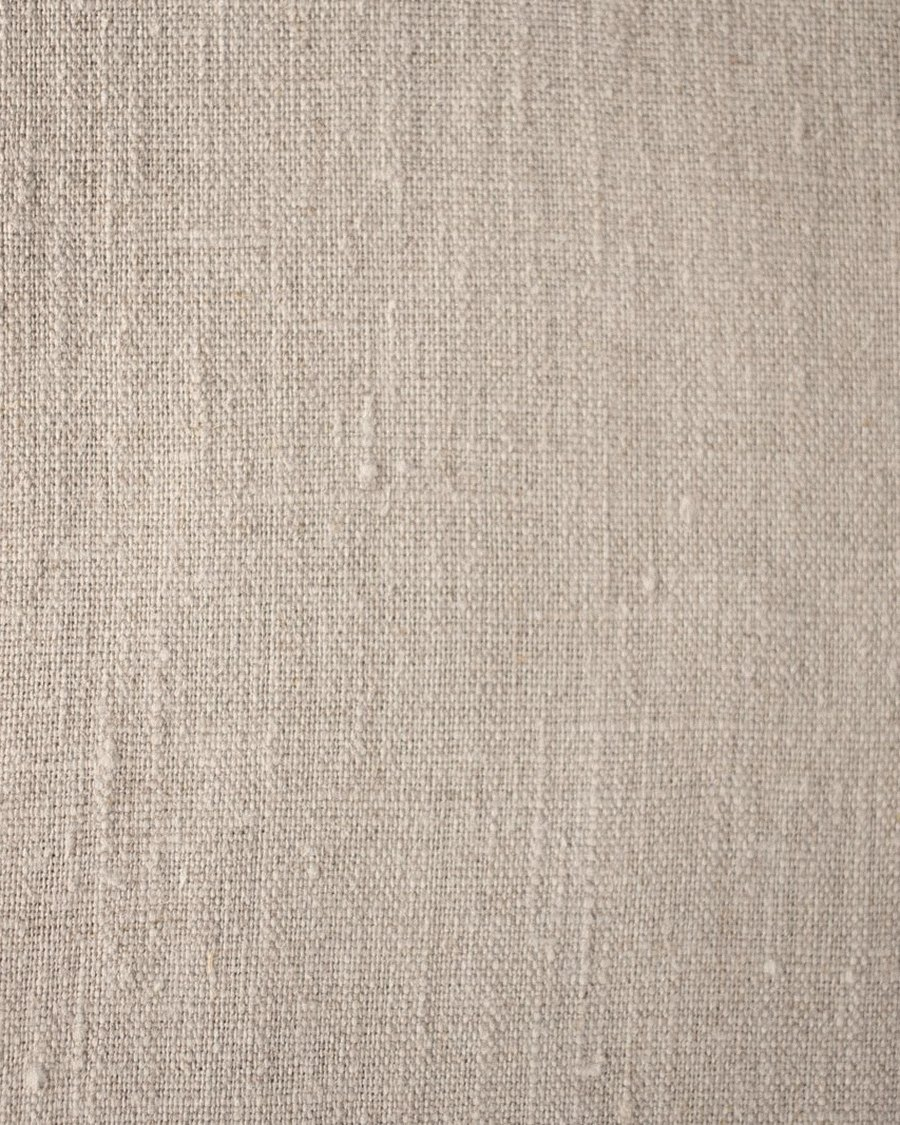
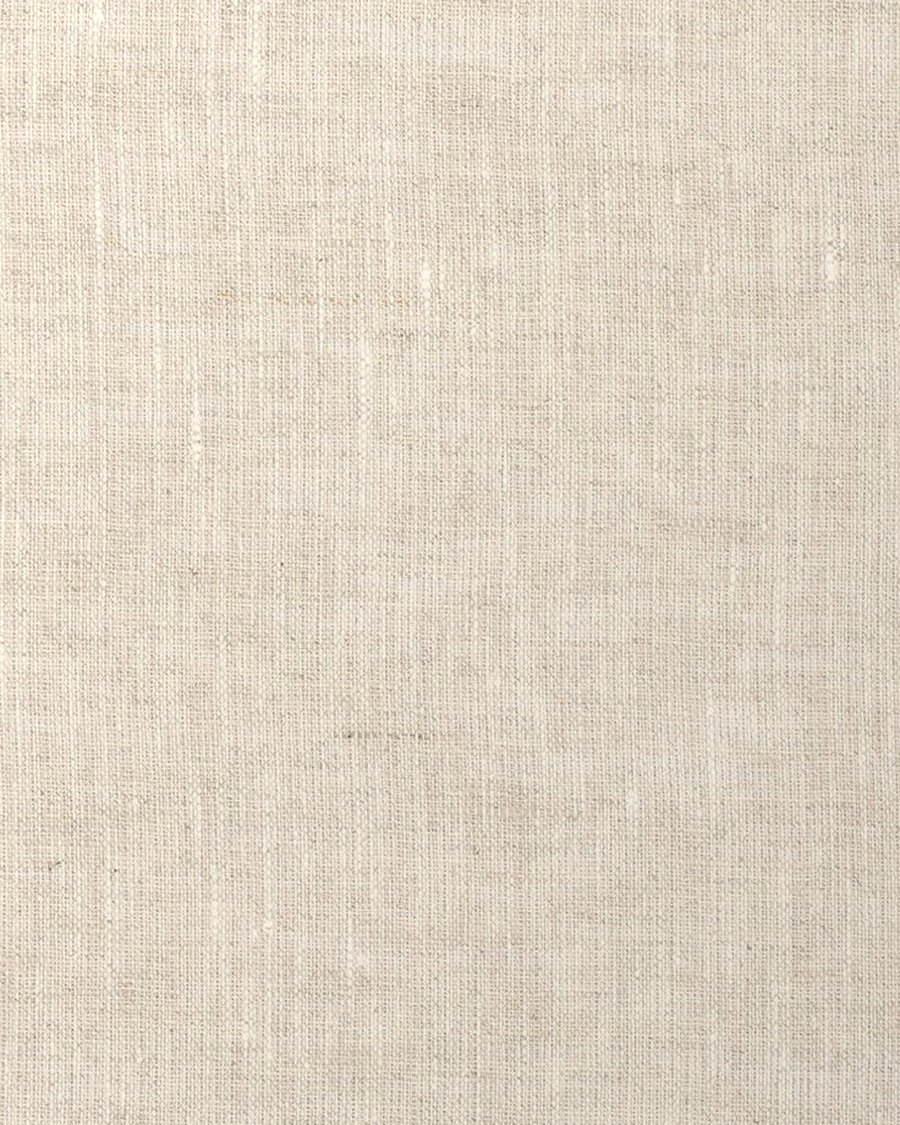
Lino natural con nueva imagen y nombres de materiales según sus texturas
- Lino natural: nueva imagen aportada por 341 Studio
- Nombres adaptados a las fotos: Bloque de vidrio ondulado, Cuarcita en
  opus incertum (pasa a Piedras naturales), Piedra clara tipo Ceppo,
  Lana bouclé y Aluminio cepillado (acabado encerado)

Claude-Session: https://claude.ai/code/session_01Xops2A717m5QMFGxGir6Zh

diff --git a/data/biblioteca.js b/data/biblioteca.js
@@ -27,14 +27,14 @@ window.BIBLIOTECA = {
     { id: "roble-natural", nombre: "Roble natural", categoria: "Maderas", acabado: "Suelos, carpintería y mobiliario", imagen: "img/materiales/roble-natural.jpg" },
     { id: "hormigon", nombre: "Hormigón", categoria: "Hormigón y cemento", acabado: "Sofá integrado", imagen: "img/materiales/hormigon.jpg" },
     { id: "lino-natural", nombre: "Lino natural", categoria: "Textiles", acabado: "Cortinas y tapicerías", imagen: "img/materiales/lino-natural.jpg" },
-    { id: "aluminio-encerado", nombre: "Aluminio encerado", categoria: "Metales", acabado: "Encerado", imagen: "img/materiales/aluminio-encerado.jpg" },
-    { id: "bloque-vidrio", nombre: "Bloque de vidrio translúcido", categoria: "Vidrio", acabado: "Pared del baño", imagen: "img/materiales/bloque-vidrio.jpg" },
+    { id: "aluminio-encerado", nombre: "Aluminio cepillado", categoria: "Metales", acabado: "Acabado encerado", imagen: "img/materiales/aluminio-encerado.jpg" },
+    { id: "bloque-vidrio", nombre: "Bloque de vidrio ondulado", categoria: "Vidrio", acabado: "Pared translúcida del baño", imagen: "img/materiales/bloque-vidrio.jpg" },
     { id: "roble-tenido-oscuro", nombre: "Roble teñido oscuro", categoria: "Maderas", acabado: "Muebles empotrados y mesa de comedor", imagen: "img/materiales/roble-tenido-oscuro.jpg" },
     { id: "ceramica-terracota-esmaltada", nombre: "Cerámica de terracota esmaltada", categoria: "Cerámica", acabado: "Revestimiento de chimenea · California", imagen: "img/materiales/ceramica-terracota-esmaltada.jpg" },
-    { id: "ceramica-opus-incertum", nombre: "Cerámica en opus incertum", categoria: "Cerámica", acabado: "Suelo en tonos de pizarra", imagen: "img/materiales/ceramica-opus-incertum.jpg" },
+    { id: "ceramica-opus-incertum", nombre: "Cuarcita en opus incertum", categoria: "Piedras naturales", acabado: "Suelo en piezas irregulares", imagen: "img/materiales/ceramica-opus-incertum.jpg" },
     { id: "piedra-veteada-clara", nombre: "Piedra natural veteada clara", categoria: "Piedras naturales", acabado: "Isla de cocina", imagen: "img/materiales/piedra-veteada-clara.jpg" },
-    { id: "piedra-gris-tipo-ceppo", nombre: "Piedra gris tipo Ceppo", categoria: "Piedras naturales", acabado: "Encimera de baño", imagen: "img/materiales/piedra-gris-tipo-ceppo.jpg" },
-    { id: "lana-pelo-largo", nombre: "Lana de pelo largo", categoria: "Textiles", acabado: "Alfombra", imagen: "img/materiales/lana-pelo-largo.jpg" },
+    { id: "piedra-gris-tipo-ceppo", nombre: "Piedra clara tipo Ceppo", categoria: "Piedras naturales", acabado: "Encimera de baño", imagen: "img/materiales/piedra-gris-tipo-ceppo.jpg" },
+    { id: "lana-pelo-largo", nombre: "Lana bouclé", categoria: "Textiles", acabado: "Alfombra", imagen: "img/materiales/lana-pelo-largo.jpg" },
   ],
 
   mobiliario: [
